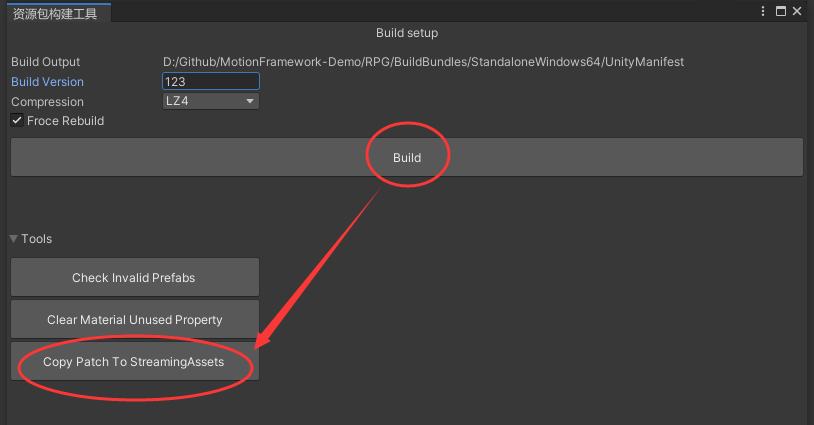
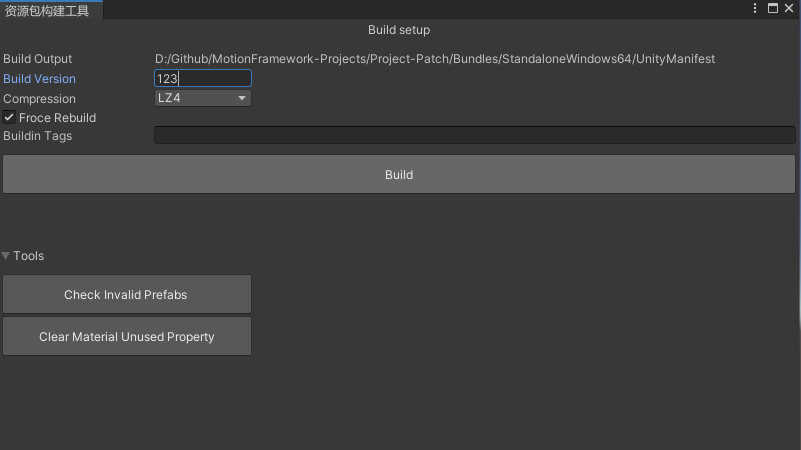
Update document

diff --git a/Docs/Editor.AssetBundleCollector.md b/Docs/Editor.AssetBundleCollector.md
@@ -15,15 +15,15 @@
 <root>
 	
 	<!--注释-->
-	<Collector Directory="Assets/GameRes/Lua/" PackRule="PackExplicit" FilterRule="CollectAll" DontWriteAssetPath="0"/>
-	<Collector Directory="Assets/GameRes/UIAtlas/" PackRule="PackExplicit" FilterRule="CollectAll" DontWriteAssetPath="0"/>
-	<Collector Directory="Assets/GameRes/UIPanel/" PackRule="PackExplicit" FilterRule="CollectAll" DontWriteAssetPath="0"/>
-	<Collector Directory="Assets/GameRes/UITexture/Foods/" PackRule="PackExplicit" FilterRule="CollectAll" DontWriteAssetPath="0"/>
-	<Collector Directory="Assets/GameRes/UITexture/Background/" PackRule="PackExplicit" FilterRule="CollectAll" DontWriteAssetPath="0"/>
-	<Collector Directory="Assets/GameRes/Entity/" PackRule="PackExplicit" FilterRule="CollectAll" DontWriteAssetPath="0"/>
+	<Collector Directory="Assets/GameRes/Lua/" PackRule="PackExplicit" FilterRule="CollectAll" DontWriteAssetPath="0" AssetTags=""/>
+	<Collector Directory="Assets/GameRes/UIAtlas/" PackRule="PackExplicit" FilterRule="CollectAll" DontWriteAssetPath="0" AssetTags=""/>
+	<Collector Directory="Assets/GameRes/UIPanel/" PackRule="PackExplicit" FilterRule="CollectAll" DontWriteAssetPath="0" AssetTags=""/>
+	<Collector Directory="Assets/GameRes/UITexture/Foods/" PackRule="PackExplicit" FilterRule="CollectAll" DontWriteAssetPath="0" AssetTags=""/>
+	<Collector Directory="Assets/GameRes/UITexture/Background/" PackRule="PackExplicit" FilterRule="CollectAll" DontWriteAssetPath="0" AssetTags=""/>
+	<Collector Directory="Assets/GameRes/Entity/" PackRule="PackExplicit" FilterRule="CollectAll" DontWriteAssetPath="0" AssetTags="entity"/>
 
 	<!--精灵-->
-	<Collector Directory="Assets/GameArt/Panel/Sprite/" PackRule="PackDirectory" FilterRule="CollectAll" DontWriteAssetPath="1"/>
+	<Collector Directory="Assets/GameArt/Panel/Sprite/" PackRule="PackDirectory" FilterRule="CollectAll" DontWriteAssetPath="1" AssetTags=""/>
 	
 </root>
 ```

diff --git a/Docs/Editor.AssetBundleBuilder.md b/Docs/Editor.AssetBundleBuilder.md
@@ -60,13 +60,14 @@ private static void BuildInternal(BuildTarget buildTarget)
 	Debug.Log($"[Build] 强制重建 : {isForceBuild}");
 
 	// 构建参数
-	string defaultOutputRoot = AssetBundleBuilderHelper.GetDefaultOutputRootPath();
+	string defaultOutputRoot = AssetBundleBuilderHelper.GetDefaultOutputRoot();
 	AssetBundleBuilder.BuildParameters buildParameters = new AssetBundleBuilder.BuildParameters();
 	buildParameters.OutputRoot = defaultOutputRoot;
 	buildParameters.BuildTarget = buildTarget;
 	buildParameters.BuildVersion = buildVersion;
 	buildParameters.CompressOption = ECompressOption.LZ4;
 	buildParameters.IsForceRebuild = isForceBuild;
+	buildParameters.BuildinTags = "base";
 
 	// 执行构建
 	AssetBundleBuilder builder = new AssetBundleBuilder();
